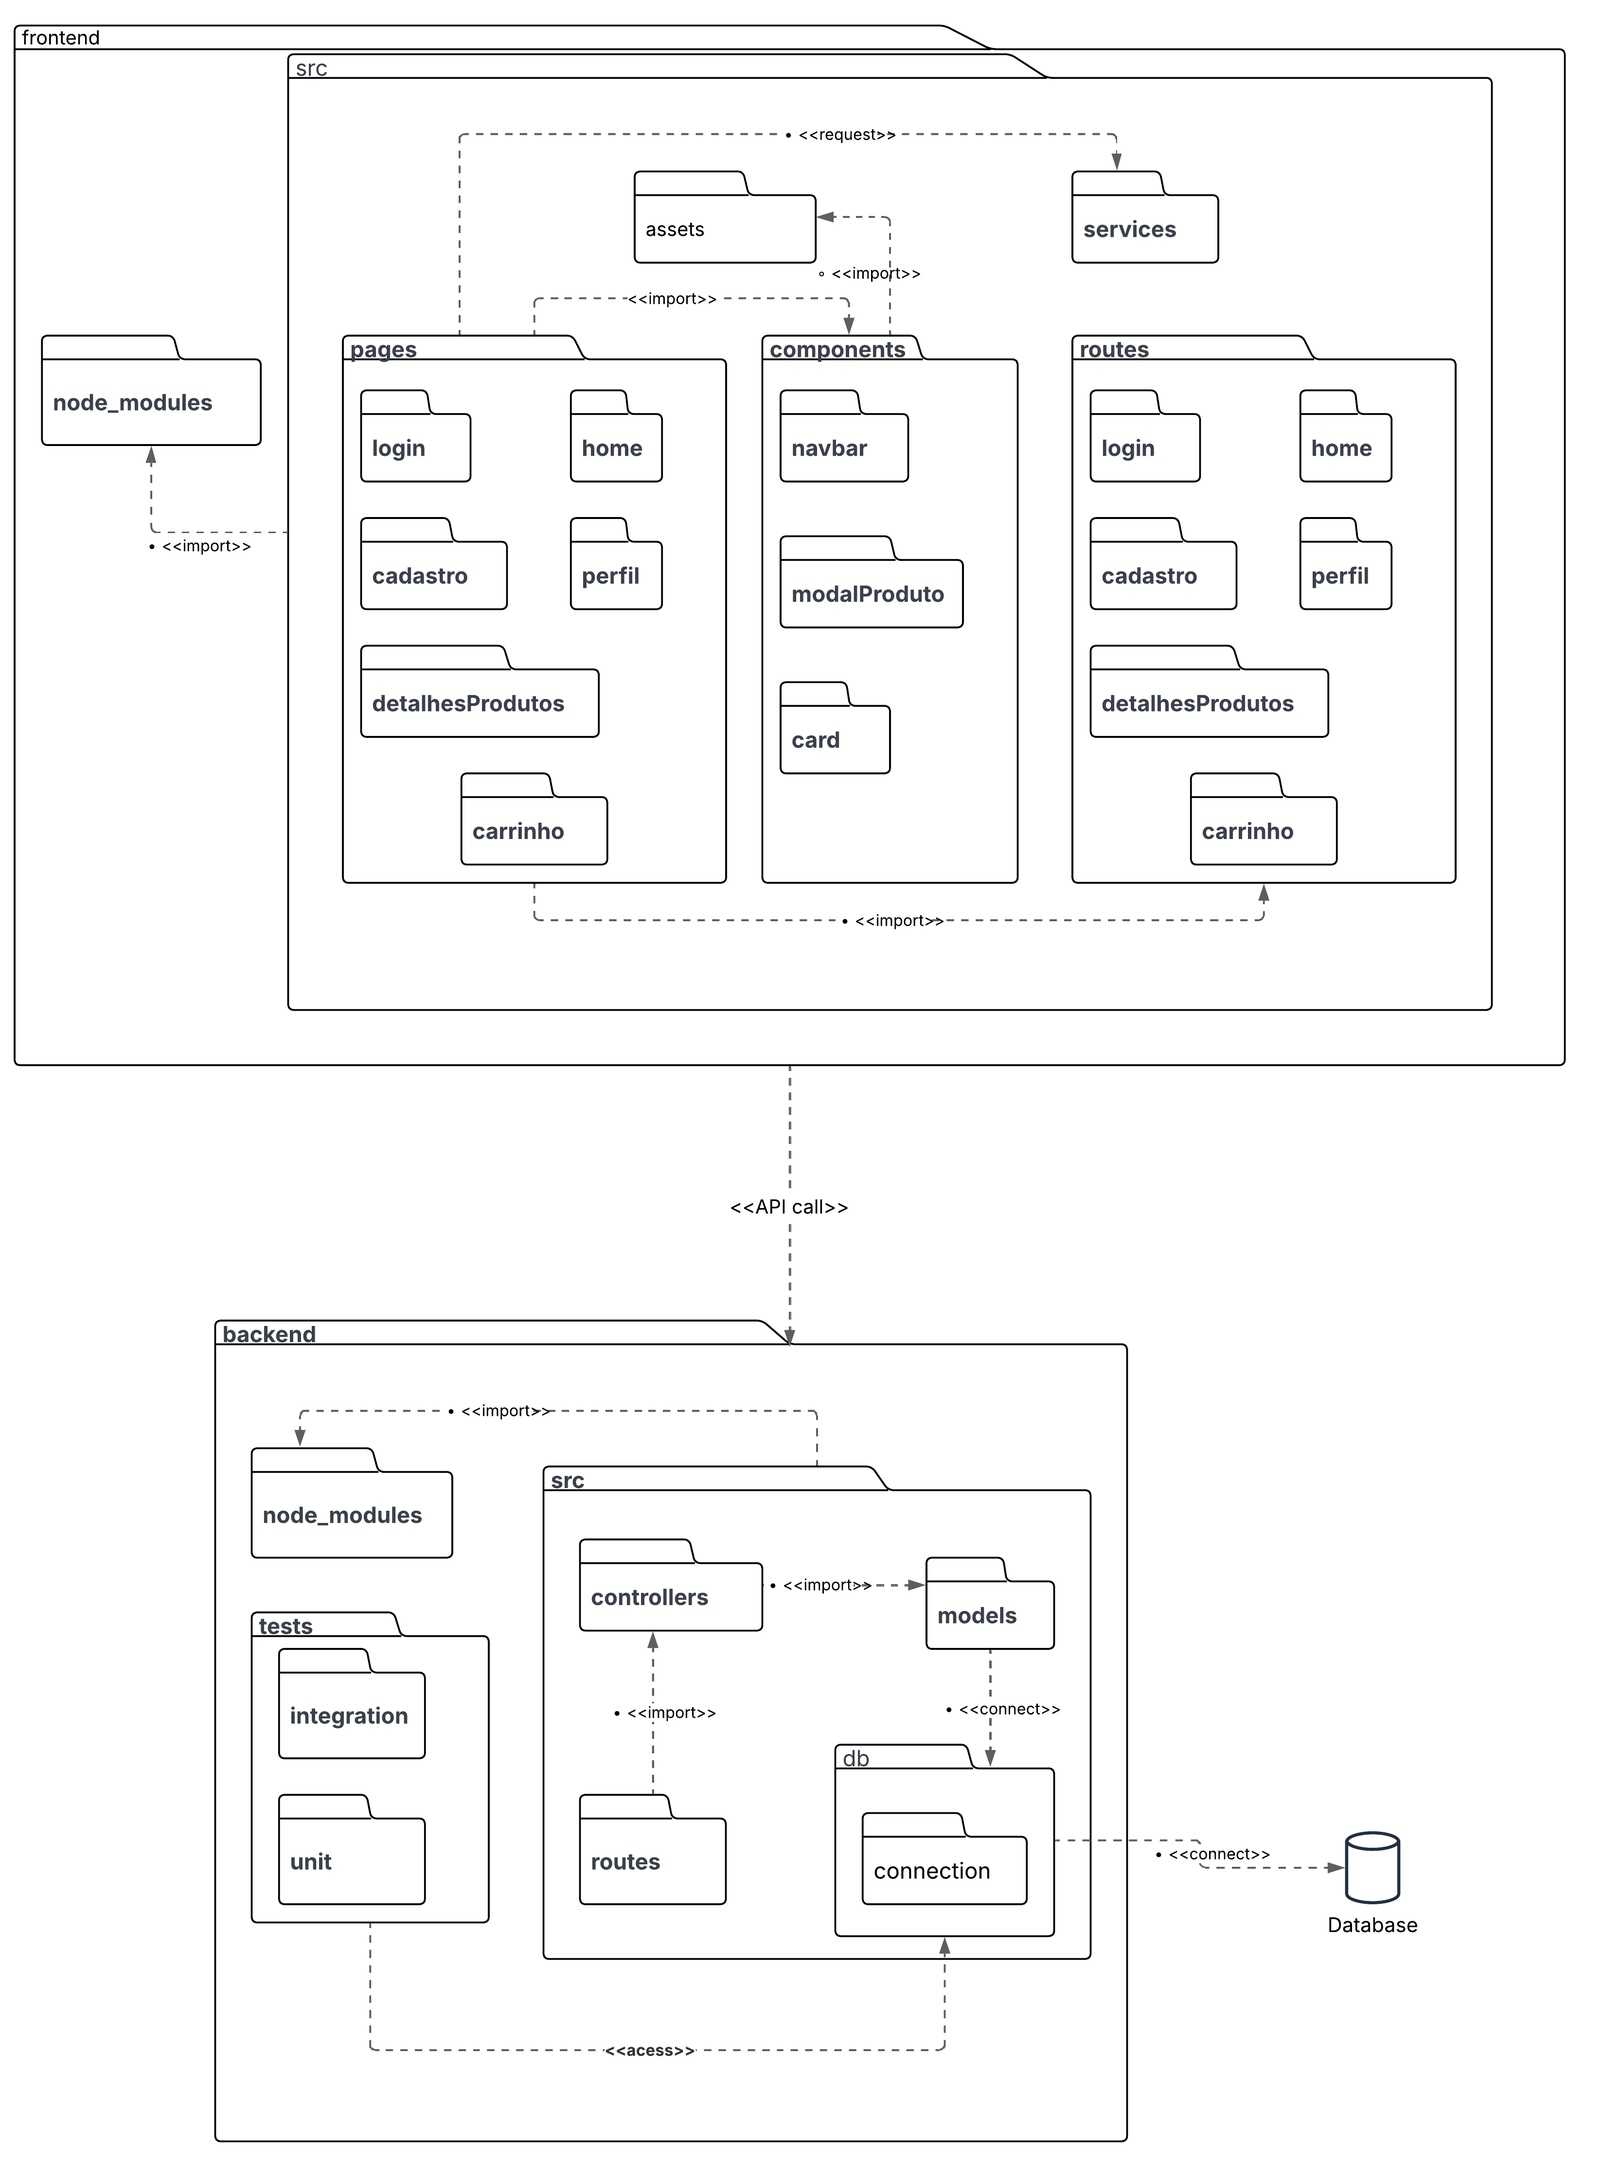
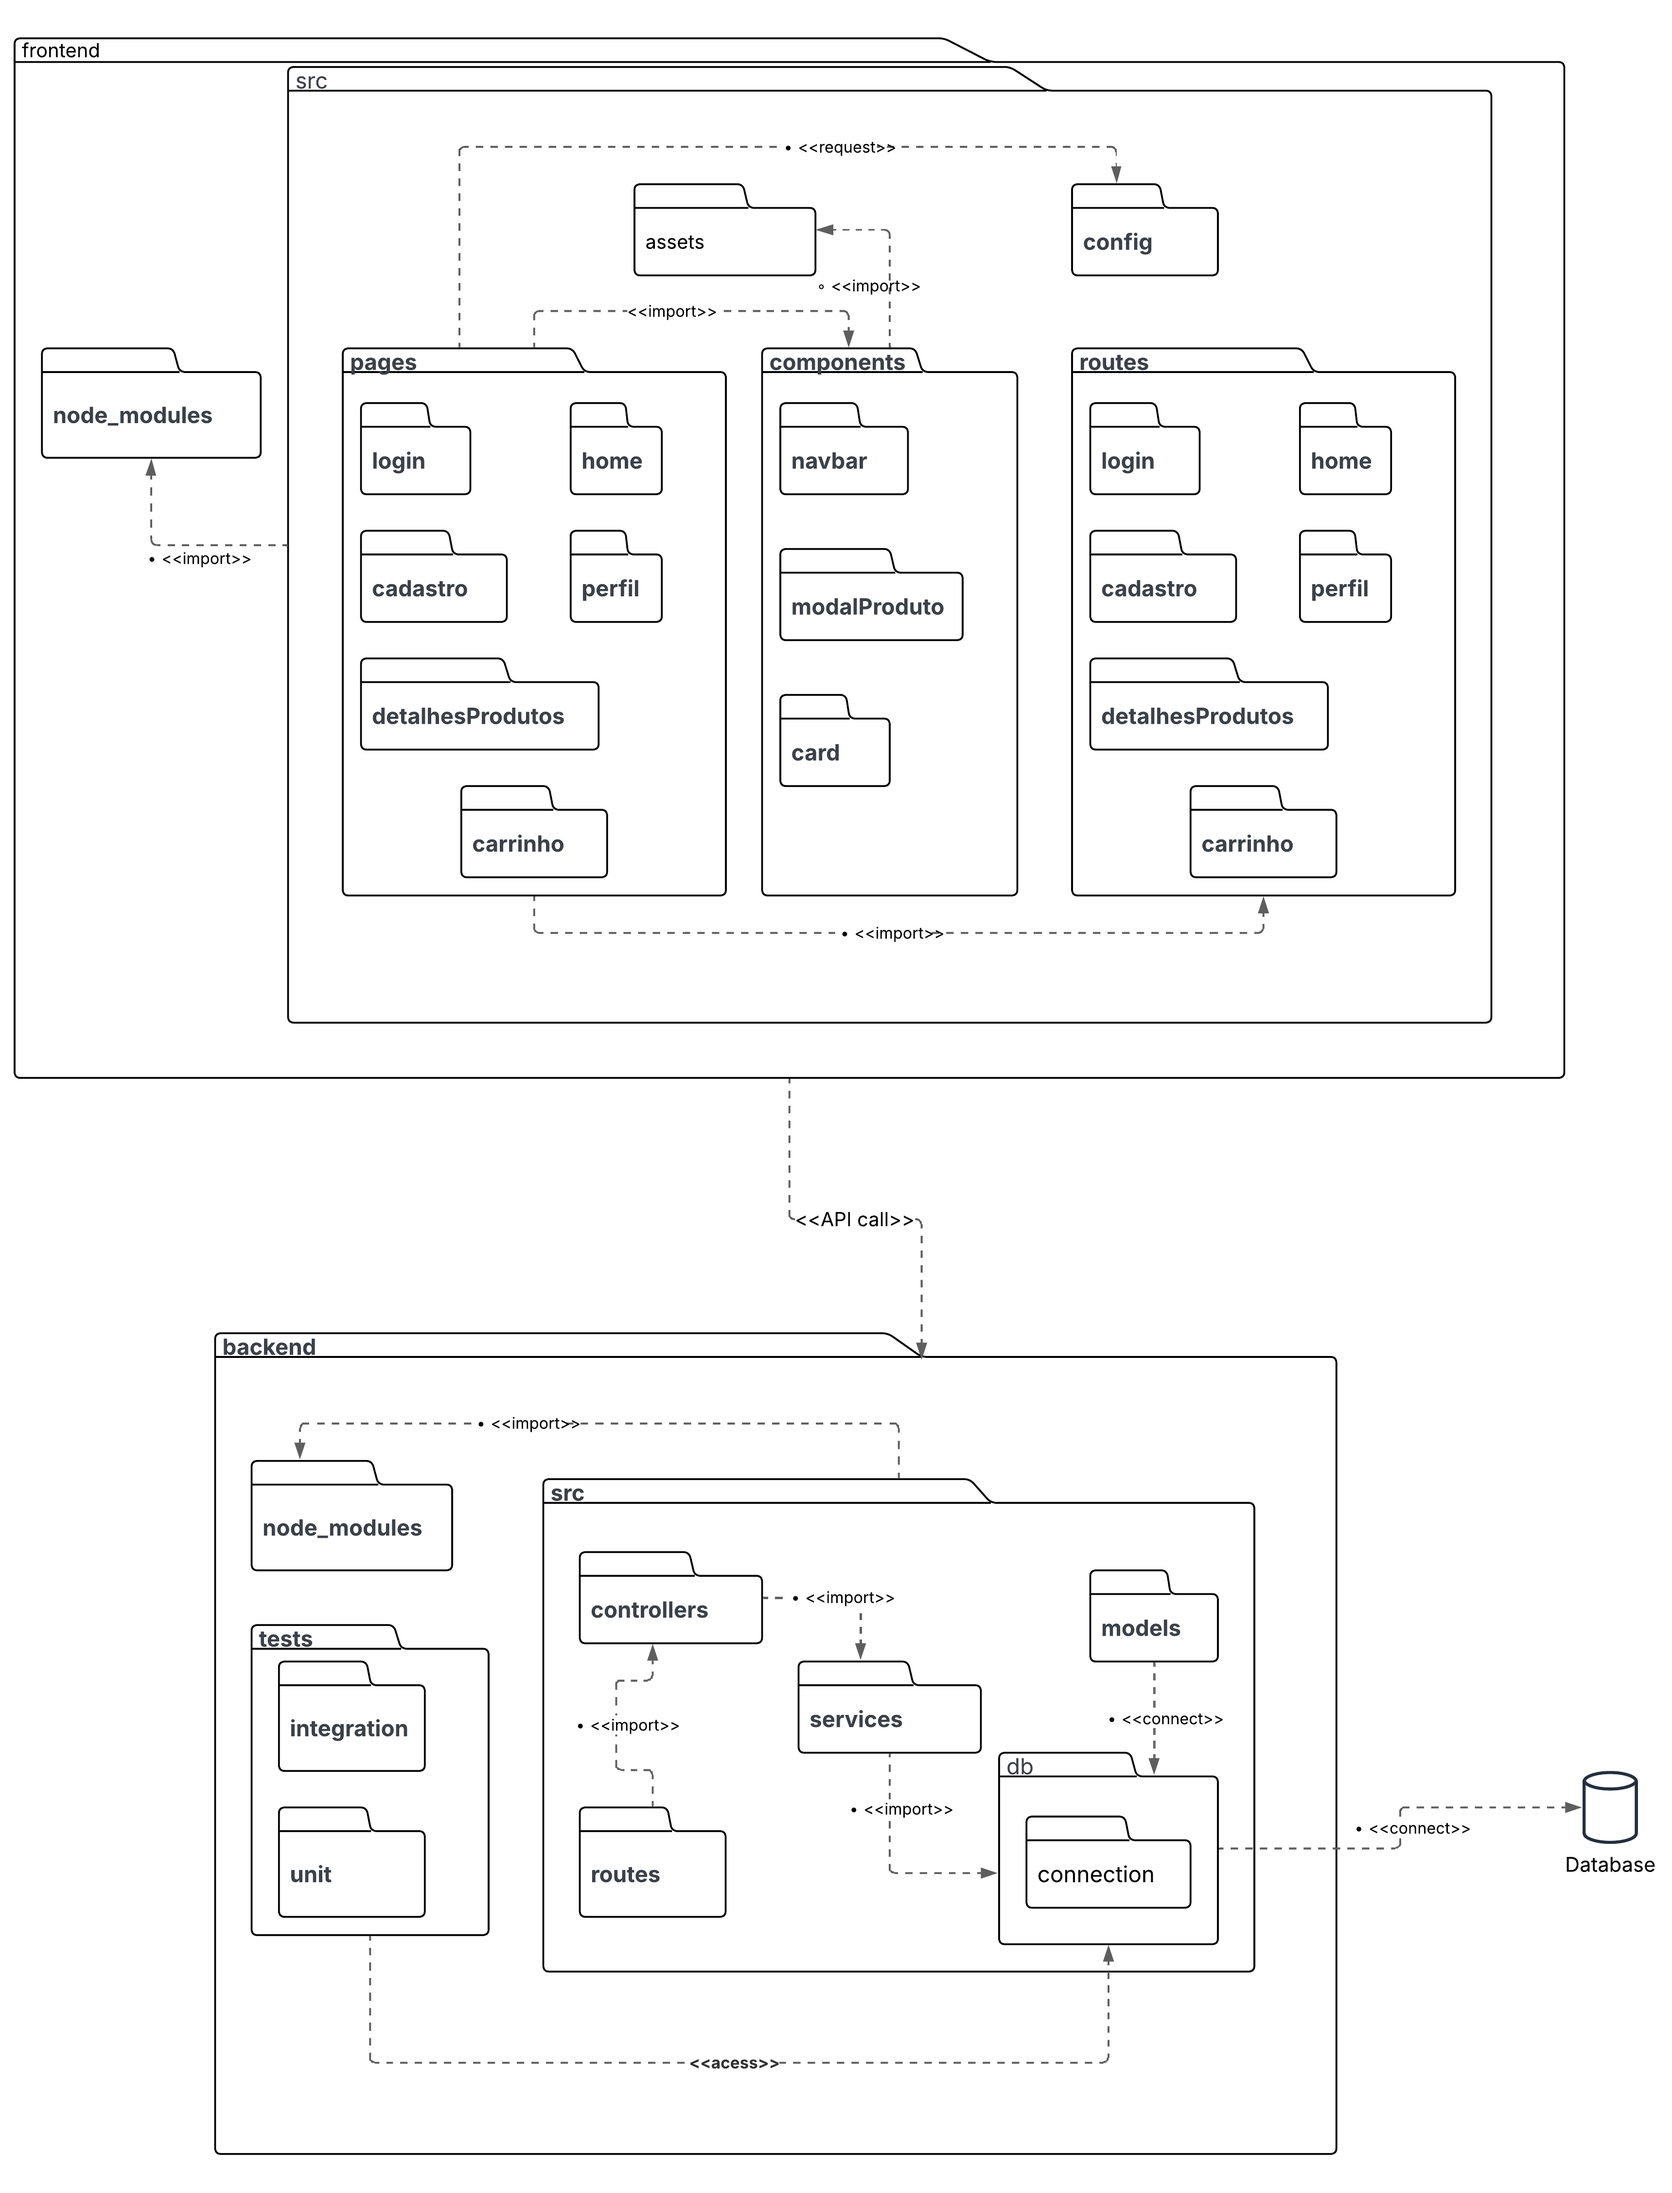
atualizando o diagrama de pacote - imagem e roteiro

diff --git a/Diagrama_pacotes/roteiroPacote.md b/Diagrama_pacotes/roteiroPacote.md
@@ -23,11 +23,11 @@ Define as rotas e seus respectivos componentes de página.
 - Importado por `pages` ou diretamente no arquivo principal de roteamento (ex: `App.tsx`).
 - Serve para organizar a navegação SPA (Single Page Application).
 
-### 1.4. `services`
+### 1.4. `config`
 Contém funções responsáveis pelas chamadas HTTP para o backend (ex: `axios`, `fetch`, etc).
 
 - Importado por `pages` para enviar e receber dados via API.
-- Seta `<<request>>` conecta `services` ao backend.
+- Seta `<<request>>` conecta `config` ao backend.
 
 ### 1.5. `assets`
 Contém arquivos estáticos (imagens, ícones, etc.).
